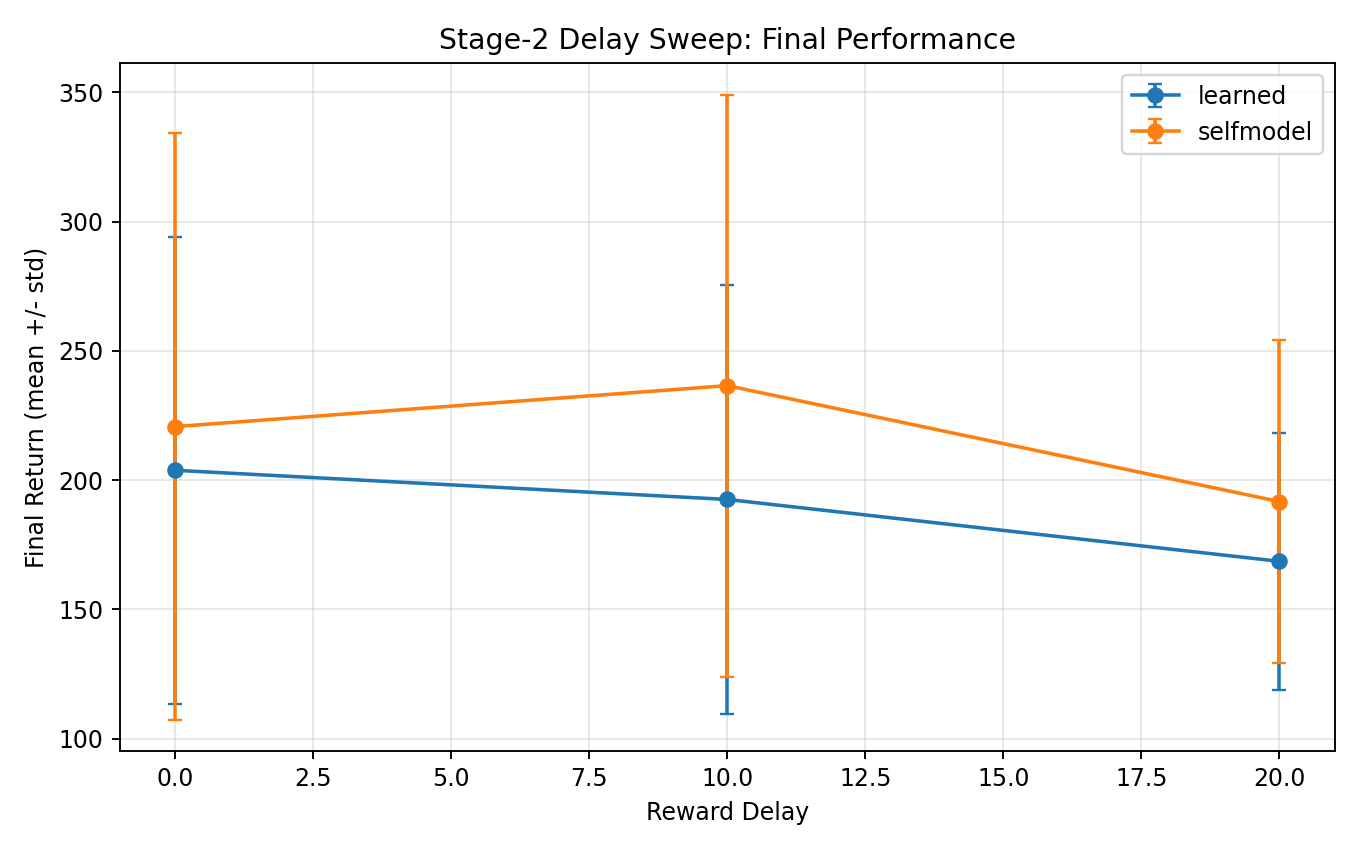
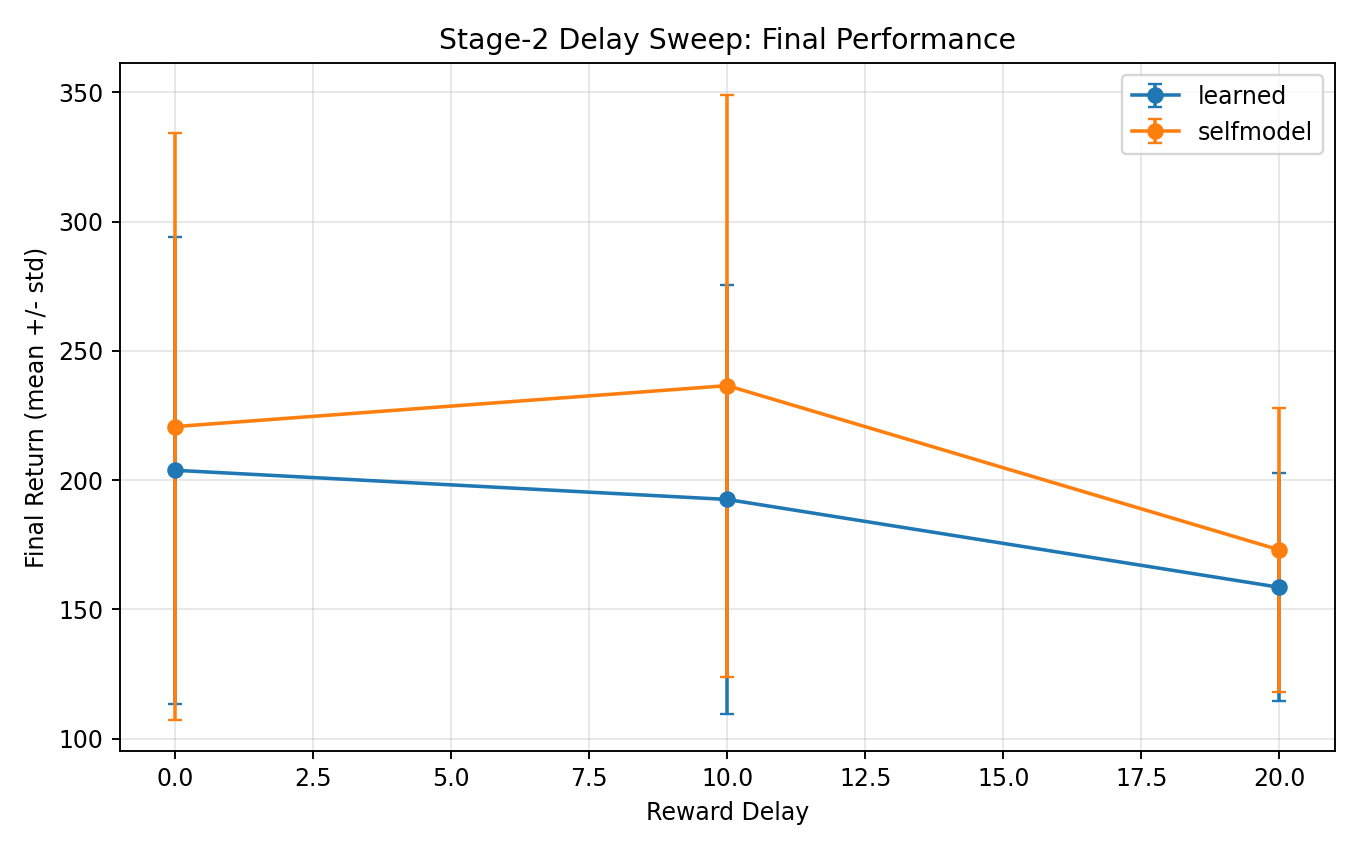
stage2_delay20_seed30_groupdiff_high1020

diff --git a/docs/stage2_delay_sweep_warmup_both20k_summary_2026-02-16.tex b/docs/stage2_delay_sweep_warmup_both20k_summary_2026-02-16.tex
@@ -4,6 +4,6 @@ delay & root & baseline_condition & selfmodel_condition & baseline_final_mean & 
 \midrule
 0 & runs/sweeps/stage2_delay_sweep_warmup_both20k_v1/delay0 & learned_tau_delay10 & learned_tau_delay10_selfmodel & 203.778 & 90.236 & 220.689 & 113.399 & 16.910 & 148.659 & -34.583 & 73.464 & 30.000 & 14.000 & 16.000 & 163.255 & 48.121 & 170.328 & 55.920 & 7.073 & 71.934 & -18.177 & 34.160 & 30.000 & 15.000 & 15.000 \\
 10 & runs/sweeps/stage2_delay_sweep_warmup_both20k_v1/delay10 & learned_tau_delay10 & learned_tau_delay10_selfmodel & 192.491 & 82.982 & 236.531 & 112.553 & 44.040 & 112.183 & 3.169 & 84.658 & 30.000 & 19.000 & 11.000 & 162.339 & 39.656 & 175.954 & 59.820 & 13.615 & 72.492 & -11.065 & 40.145 & 30.000 & 15.000 & 15.000 \\
-20 & runs/sweeps/stage2_delay_sweep_warmup_both20k_v1/delay20 & learned_tau_delay10 & learned_tau_delay10_selfmodel & 168.553 & 49.841 & 191.685 & 62.335 & 23.131 & 84.747 & -20.684 & 64.190 & 15.000 & 9.000 & 6.000 & 155.217 & 49.330 & 140.906 & 25.623 & -14.311 & 59.793 & -44.870 & 15.791 & 15.000 & 9.000 & 6.000 \\
+20 & runs/sweeps/stage2_delay_sweep_warmup_both20k_v1/delay20 & learned_tau_delay10 & learned_tau_delay10_selfmodel & 158.507 & 44.058 & 172.979 & 54.907 & 14.472 & 69.882 & -10.750 & 39.046 & 30.000 & 18.000 & 12.000 & 147.773 & 40.608 & 138.597 & 30.135 & -9.176 & 47.536 & -26.908 & 7.256 & 30.000 & 15.000 & 15.000 \\
 \bottomrule
 \end{tabular}

diff --git a/docs/stage2_delay_warmup_delay20_paired_2026-02-16.tex b/docs/stage2_delay_warmup_delay20_paired_2026-02-16.tex
@@ -2,7 +2,7 @@
 \toprule
 anchor & comparator & metric & n_pairs & delta_mean & delta_std & ci95_low & ci95_high & delta_min & delta_max & n_positive & n_negative & n_zero \\
 \midrule
-learned_tau_delay10_selfmodel & learned_tau_delay10 & final_mean & 15 & 23.131 & 84.747 & -20.684 & 64.190 & -170.140 & 139.125 & 9 & 6 & 0 \\
-learned_tau_delay10_selfmodel & learned_tau_delay10 & auc & 15 & -14.311 & 59.793 & -44.870 & 15.791 & -121.033 & 88.310 & 9 & 6 & 0 \\
+learned_tau_delay10_selfmodel & learned_tau_delay10 & final_mean & 30 & 14.472 & 69.882 & -10.750 & 39.046 & -170.140 & 139.125 & 18 & 12 & 0 \\
+learned_tau_delay10_selfmodel & learned_tau_delay10 & auc & 30 & -9.176 & 47.536 & -26.908 & 7.256 & -121.033 & 88.310 & 15 & 15 & 0 \\
 \bottomrule
 \end{tabular}

diff --git a/docs/stage2_delay_warmup_groupdiff_0_vs_10_20_2026-02-16.tex b/docs/stage2_delay_warmup_groupdiff_0_vs_10_20_2026-02-16.tex
@@ -1,0 +1,8 @@
+\begin{tabular}{lrllllllllllrrr}
+\toprule
+metric & n_seeds & low_delays & high_delays & low_delta_mean & low_delta_std & high_delta_mean & high_delta_std & group_diff_mean & group_diff_std & group_diff_ci95_low & group_diff_ci95_high & n_positive & n_negative & n_zero \\
+\midrule
+final_mean & 30 & 0 & 10,20 & 16.910 & 148.659 & 29.256 & 79.322 & 12.346 & 169.043 & -50.539 & 70.687 & 17 & 13 & 0 \\
+auc & 30 & 0 & 10,20 & 7.073 & 71.934 & 2.220 & 46.442 & -4.853 & 86.077 & -36.271 & 25.431 & 13 & 17 & 0 \\
+\bottomrule
+\end{tabular}

diff --git a/docs/stage2_delay_warmup_groupdiff_0_vs_20_2026-02-16.tex b/docs/stage2_delay_warmup_groupdiff_0_vs_20_2026-02-16.tex
@@ -1,0 +1,8 @@
+\begin{tabular}{lrllllllllllrrr}
+\toprule
+metric & n_seeds & low_delays & high_delays & low_delta_mean & low_delta_std & high_delta_mean & high_delta_std & group_diff_mean & group_diff_std & group_diff_ci95_low & group_diff_ci95_high & n_positive & n_negative & n_zero \\
+\midrule
+final_mean & 30 & 0 & 20 & 16.910 & 148.659 & 14.472 & 69.882 & -2.439 & 164.375 & -62.867 & 56.197 & 17 & 13 & 0 \\
+auc & 30 & 0 & 20 & 7.073 & 71.934 & -9.176 & 47.536 & -16.249 & 82.649 & -46.497 & 12.539 & 16 & 14 & 0 \\
+\bottomrule
+\end{tabular}

diff --git a/docs/stage2_results_2026-02-16.md b/docs/stage2_results_2026-02-16.md
@@ -275,7 +275,7 @@ To place the strong `delay=10` result in the same sweep context, we refreshed wa
 - Delay budgets:
   - `delay=0`: 30 seeds
   - `delay=10`: 30 seeds (imported aggregate from `runs/sweeps/stage2_delay_delaybiased_warmup_both20k_v1`)
-  - `delay=20`: 15 seeds
+  - `delay=20`: 30 seeds
 
 Artifacts:
 
@@ -290,42 +290,50 @@ Paired final deltas (`selfmodel - learned`):
 
 - `delay=0` (`n=30`): `+16.910` (CI `[-34.583, 73.464]`)
 - `delay=10` (`n=30`): `+44.040` (CI `[3.169, 84.658]`)
-- `delay=20` (`n=15`): `+23.131` (CI `[-20.684, 64.190]`)
+- `delay=20` (`n=30`): `+14.472` (CI `[-10.750, 39.046]`)
 
 Paired AUC deltas (`selfmodel - learned`):
 
 - `delay=0` (`n=30`): `+7.073` (CI `[-18.177, 34.160]`)
 - `delay=10` (`n=30`): `+13.615` (CI `[-11.065, 40.145]`)
-- `delay=20` (`n=15`): `-14.311` (CI `[-44.870, 15.791]`)
+- `delay=20` (`n=30`): `-9.176` (CI `[-26.908, 7.256]`)
 
 Interpretation:
 
 - The strongest and only fixed positive final-effect point remains `delay=10`.
-- `delay=0` and `delay=20` remain direction-positive in final mean but inconclusive at current confidence.
+- `delay=0` and `delay=20` remain inconclusive at current confidence.
 
-## Warmup Delay Group Difference (0 vs 10, Seed-Matched)
+## Warmup Delay Group Difference (Primary: {10,20} vs 0)
 
 We computed warmup group contrast with matched seeds:
 
 - Low-delay group: `delay={0}`
-- High-delay group: `delay={10}`
+- High-delay group: `delay={10,20}`
 - Delta definition: `selfmodel - learned`
 
 Artifacts:
 
-- `docs/stage2_delay_warmup_groupdiff_0_vs_10_2026-02-16.csv`
-- `docs/stage2_delay_warmup_groupdiff_0_vs_10_per_seed_2026-02-16.csv`
-- `docs/stage2_delay_warmup_groupdiff_0_vs_10_2026-02-16.tex`
+- `docs/stage2_delay_warmup_groupdiff_0_vs_10_20_2026-02-16.csv`
+- `docs/stage2_delay_warmup_groupdiff_0_vs_10_20_per_seed_2026-02-16.csv`
+- `docs/stage2_delay_warmup_groupdiff_0_vs_10_20_2026-02-16.tex`
 
 Results (bootstrap 95% CI):
 
-- `final_mean`: group diff (`10 - 0`) = `+27.130` (CI `[-42.314, 90.577]`)
-- `AUC`: group diff (`10 - 0`) = `+6.542` (CI `[-30.845, 44.310]`)
+- `final_mean`: group diff (`{10,20} - 0`) = `+12.346` (CI `[-50.539, 70.687]`)
+- `AUC`: group diff (`{10,20} - 0`) = `-4.853` (CI `[-36.271, 25.431]`)
 
 Interpretation:
 
-- Directionally, `delay=10` remains stronger than `delay=0`, but group-level CI still crosses zero.
-- At this point, warmup delay dependence is best treated as a trend; fixed claim remains the per-delay `delay=10` result.
+- Even after balancing `delay=20` to 30 seeds and averaging high-delay points, group-level CI still crosses zero.
+- Warmup delay dependence remains a trend-level observation; fixed claim remains the per-delay `delay=10` result.
+
+Reference group contrasts:
+
+- `10 - 0` final: `+27.130` (CI `[-42.314, 90.577]`), AUC: `+6.542` (CI `[-30.845, 44.310]`)
+- `20 - 0` final: `-2.439` (CI `[-62.867, 56.197]`), AUC: `-16.249` (CI `[-46.497, 12.539]`)
+- Artifacts:
+  - `docs/stage2_delay_warmup_groupdiff_0_vs_10_2026-02-16.csv`
+  - `docs/stage2_delay_warmup_groupdiff_0_vs_20_2026-02-16.csv`
 
 ## Figures
 
